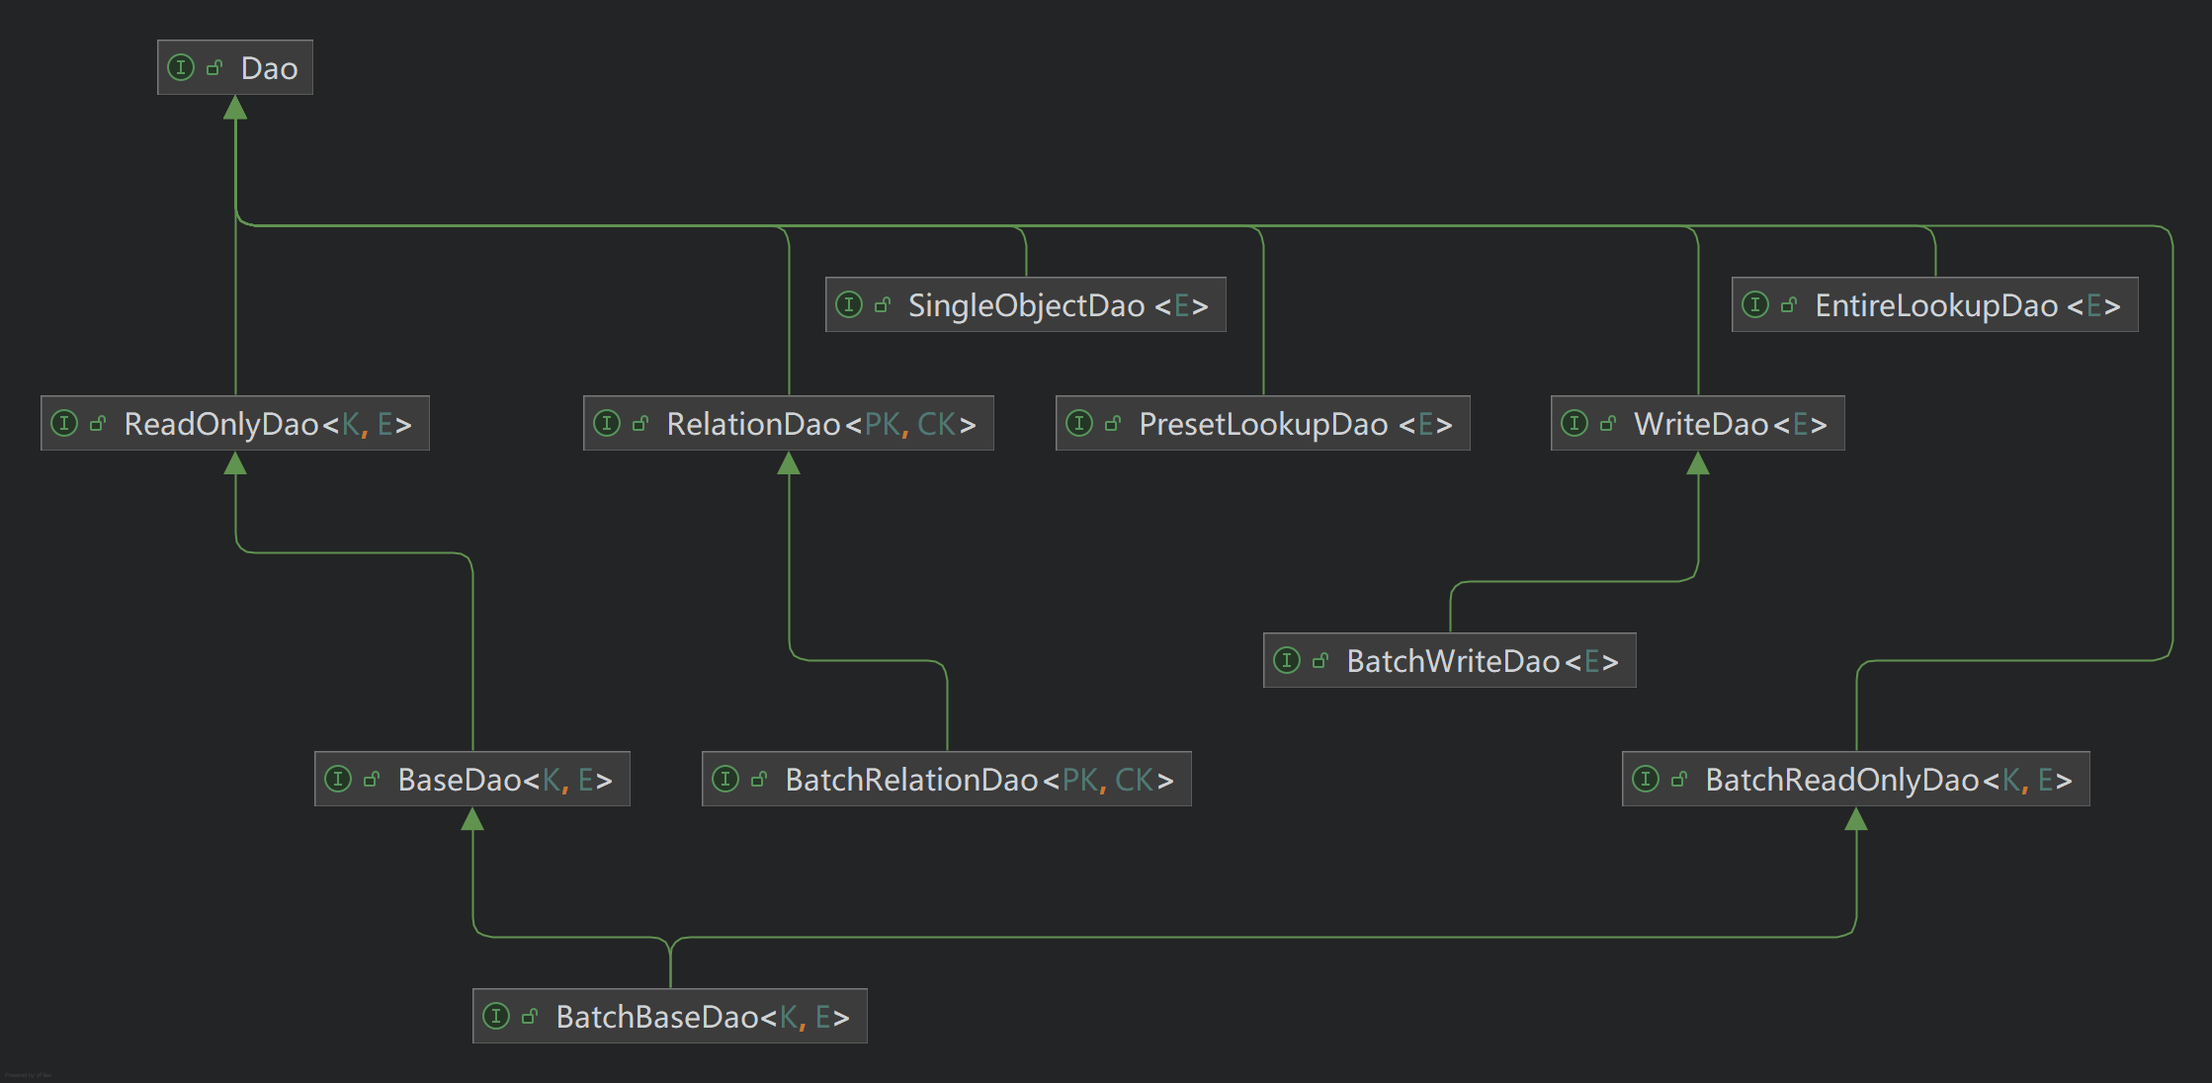
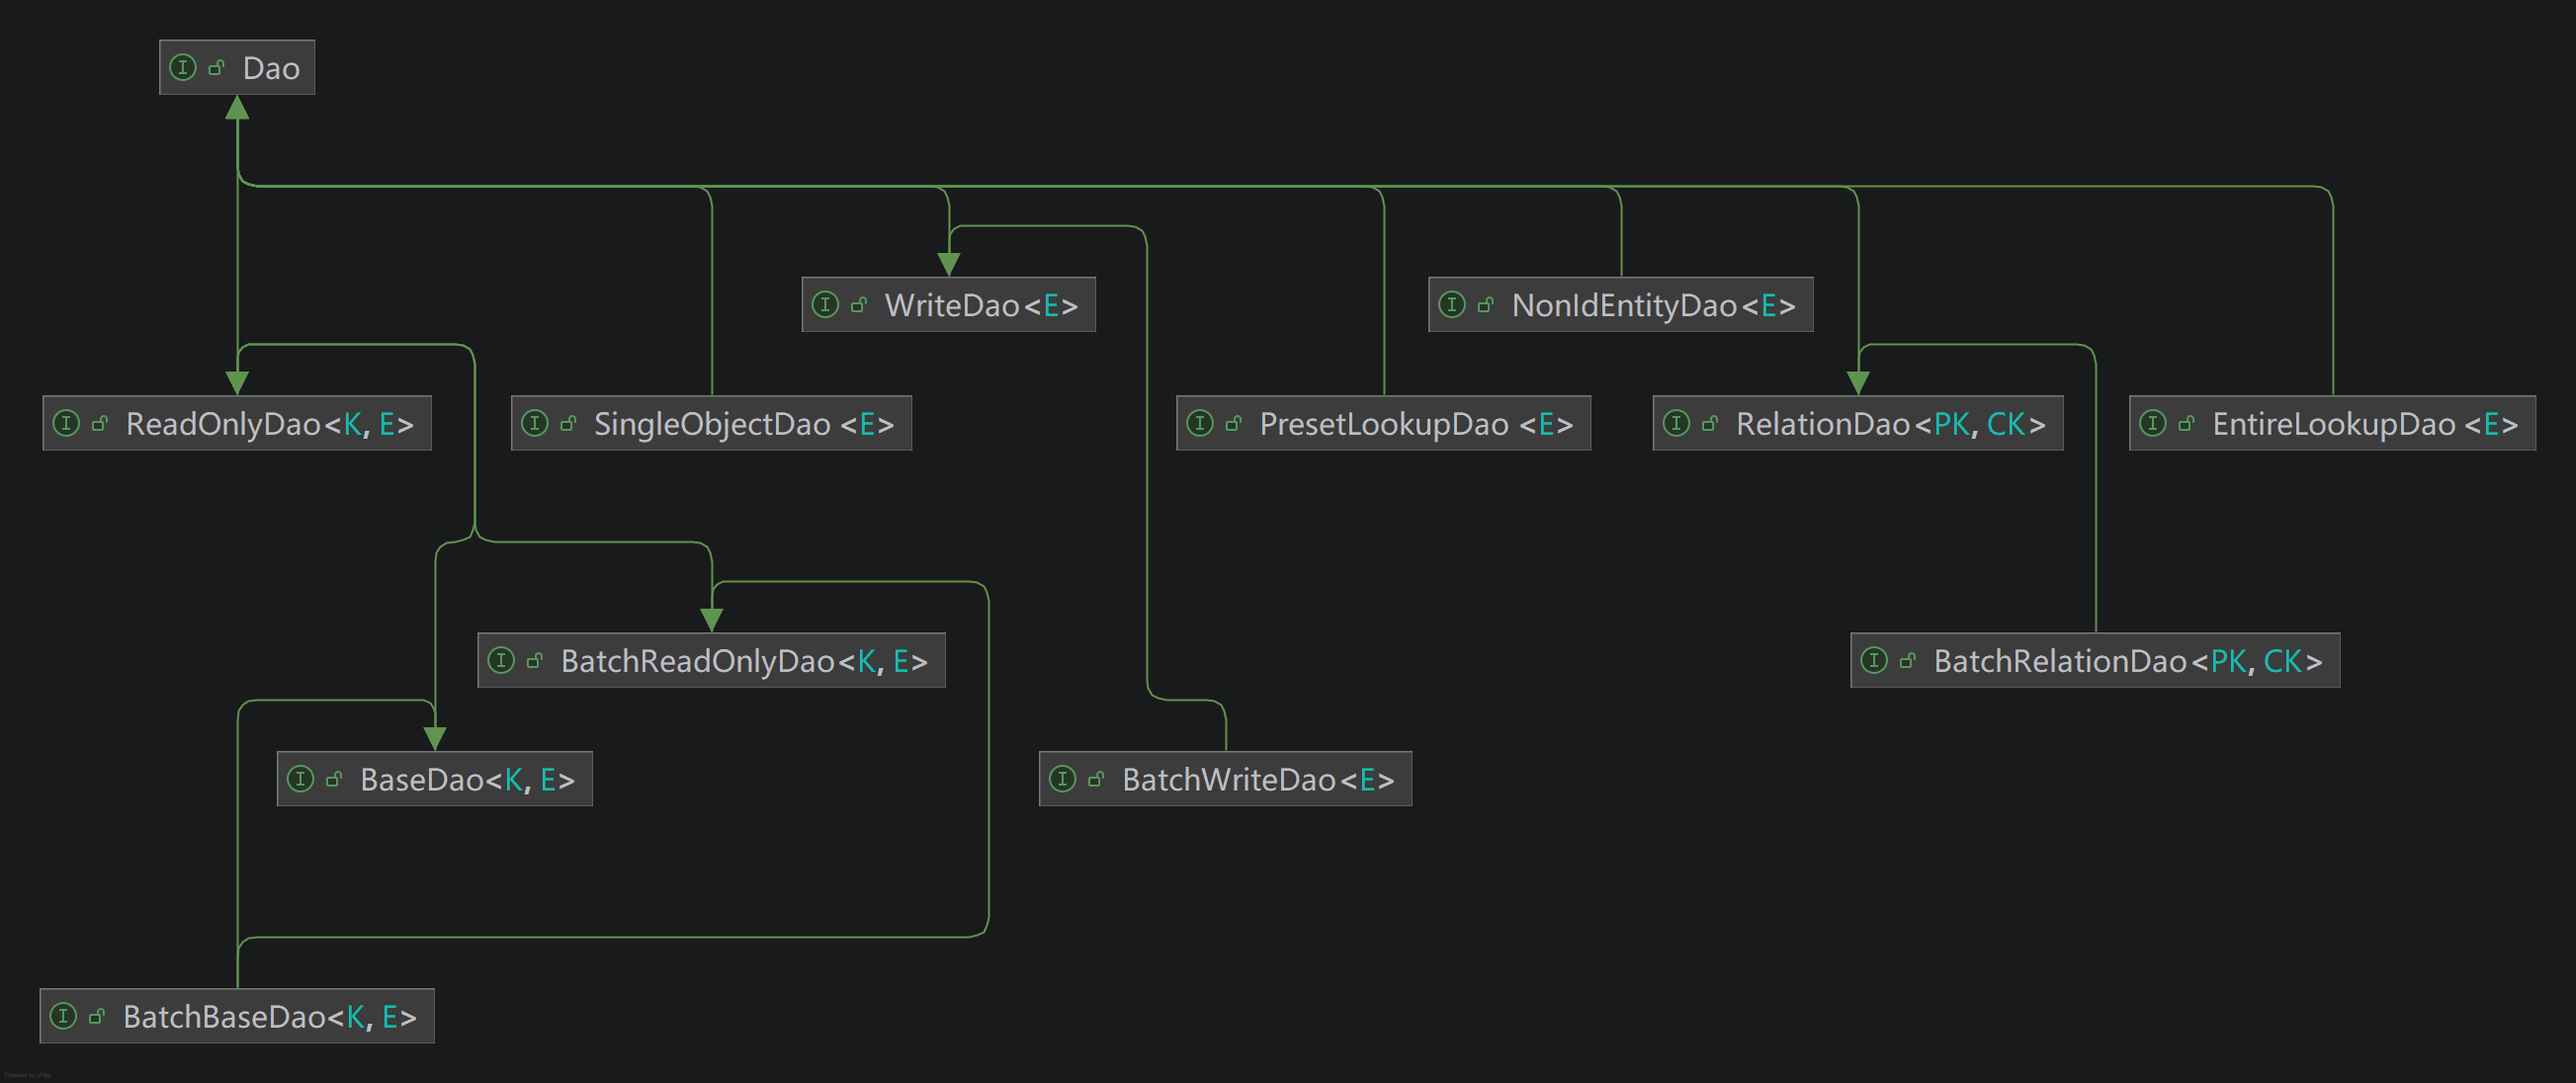
Wiki 编写
docs/wiki/zh-CN/DaoBasics.md

diff --git a/docs/wiki/zh-CN/DaoBasics.md b/docs/wiki/zh-CN/DaoBasics.md
@@ -1,0 +1,289 @@
+# Dao Basics - 数据访问层（Dao）基础
+
+## 综述
+
+数据访问层（Dao）封装对持久化数据的读写与查询，是服务层与具体存储技术之间的边界。
+在本项目中，Dao 以接口形式定义在 `com.dwarfeng.subgrade.stack.dao` 包中，由 `subgrade-impl` 模块提供多种实现，
+便于按项目技术栈组合选用。
+
+实体与主键的建模约定（`Entity`、`Key`、联合主键等）以及 Dao、缓存、服务接口在整体中的位置，
+见 [Data Access Basics](./DataAccessBasics.md)；
+缓存的接口语义与 `GeneralCrudService` 等组合缓存时的读路径，见 [Cache Basics](./CacheBasics.md)。
+
+本文在“接口定义”中说明各 Dao 接口的方法契约；在“默认实现”中按技术栈列出主要实现类；在“与服务层的典型协作”中说明与通用服务实现的组合方式。
+
+## 接口定义
+
+所有的 Dao 接口均位于 `com.dwarfeng.subgrade.stack.dao` 包中。
+
+根接口与各子接口的 UML 关系见：
+
+![DaoInterfaceUml.png](./images/DaoInterfaceUml.png)
+
+### 根接口 `Dao`
+
+`com.dwarfeng.subgrade.stack.dao.Dao` 是所有数据访问层接口的根，本身不声明方法，作为标记接口表示“属于数据访问层”的类型归属。
+
+### `ReadOnlyDao`
+
+`ReadOnlyDao<K extends Key, E extends Entity<K>>` 提供按主键的只读访问：
+
+| 方法              | 说明              |
+|:----------------|:----------------|
+| `exists(K key)` | 判断指定主键对应实体是否存在。 |
+| `get(K key)`    | 获取指定主键对应的实体。    |
+
+### `BatchReadOnlyDao`
+
+`BatchReadOnlyDao<K extends Key, E extends Entity<K>>` 继承 `ReadOnlyDao`，提供批量只读语义：
+
+| 方法                        | 说明                          |
+|:--------------------------|:----------------------------|
+| `allExists(List<K> keys)` | 当且仅当列表每一个主键均存在时返回 `true`。   |
+| `nonExists(List<K> keys)` | 当且仅当列表中每一个主键均不存在时返回 `true`。 |
+| `batchGet(List<K> keys)`  | 按顺序批量获取与主键列表对应的实体列表。        |
+
+### `BaseDao`
+
+`BaseDao<K extends Key, E extends Entity<K>>` 继承 `ReadOnlyDao`，在只读能力之上增加增删改：
+
+| 方法                  | 说明           |
+|:--------------------|:-------------|
+| `insert(E element)` | 插入实体，返回对应主键。 |
+| `update(E element)` | 更新实体。        |
+| `delete(K key)`     | 按主键删除。       |
+
+一对多关系可在两侧各用 `BaseDao` 维护实体，多对多关系见 `RelationDao`。
+
+### `BatchBaseDao`
+
+`BatchBaseDao<K extends Key, E extends Entity<K>>` 继承 `BaseDao` 与 `BatchReadOnlyDao`，
+在单条 CRUD 与批量只读之外增加批量写入与批量删除：
+
+| 方法                              | 说明           |
+|:--------------------------------|:-------------|
+| `batchInsert(List<E> elements)` | 批量插入，返回主键列表。 |
+| `batchUpdate(List<E> elements)` | 批量更新。        |
+| `batchDelete(List<K> keys)`     | 批量删除。        |
+
+### `RelationDao`
+
+`RelationDao<PK extends Key, CK extends Key>` 面向多对多：维护父项主键 `PK` 与子项主键 `CK` 之间的多对多关联。
+
+| 方法                             | 说明             |
+|:-------------------------------|:---------------|
+| `existsRelation(PK pk, CK ck)` | 判断父项与子项是否存在关联。 |
+| `addRelation(PK pk, CK ck)`    | 增加一条关联。        |
+| `deleteRelation(PK pk, CK ck)` | 删除一条关联。        |
+
+### `BatchRelationDao`
+
+`BatchRelationDao<PK extends Key, CK extends Key>` 继承 `RelationDao`，
+在单条关联操作之外增加针对子项主键列表的批量语义（另继承上表中的 `existsRelation`、`addRelation`、`deleteRelation`）。
+
+| 方法                                          | 说明                                     |
+|:--------------------------------------------|:---------------------------------------|
+| `existsAllRelations(PK pk, List<CK> cks)`   | 当且仅当每一个指定的子项主键都与 `pk` 存在关联时返回 `true`。  |
+| `existsNonRelations(PK pk, List<CK> cks)`   | 当且仅当每一个指定的子项主键都与 `pk` 不存在关联时返回 `true`。 |
+| `batchAddRelations(PK pk, List<CK> cks)`    | 为父项批量添加与子项的关联。                         |
+| `batchDeleteRelations(PK pk, List<CK> cks)` | 批量删除父项与多个子项的关联。                        |
+
+### `EntireLookupDao`
+
+`EntireLookupDao<E extends Entity<?>>` 适用于数据量可控、需要“查全表”或按分页遍历的场景：
+
+| 方法                              | 说明                                  |
+|:--------------------------------|:------------------------------------|
+| `lookup()`                      | 返回全部元素列表。                           |
+| `lookup(PagingInfo pagingInfo)` | 分页查询。                               |
+| `lookupCount()`                 | 元素总数。                               |
+| `lookupFirst()`                 | 默认方法：取第一页一条，无数据时返回 `null`（自 1.2.8）。 |
+
+### `PresetLookupDao`
+
+`PresetLookupDao<E extends Entity<?>>` 支持有限个命名预设（`preset`）及参数数组（`objs`），用于条件查询与统计：
+
+| 方法                                                            | 说明                                |
+|:--------------------------------------------------------------|:----------------------------------|
+| `lookup(String preset, Object[] objs)`                        | 满足预设的全部结果。                        |
+| `lookup(String preset, Object[] objs, PagingInfo pagingInfo)` | 分页结果。                             |
+| `lookupCount(String preset, Object[] objs)`                   | 满足预设的数量。                          |
+| `lookupFirst(String preset, Object[] objs)`                   | 默认方法：取第一条，无数据时返回 `null`（自 1.2.8）。 |
+
+### `WriteDao`
+
+`WriteDao<E extends Entity<?>>` 面向大量追加写入（如数据采集）场景，与 `WriteService` 配套。
+
+| 方法                 | 说明                                                    |
+|:-------------------|:------------------------------------------------------|
+| `write(E element)` | 写入一条实体。主键允许为 `null`；若主键非 `null`，则必须保证该主键对应数据在写入前尚不存在。 |
+
+### `BatchWriteDao`
+
+`BatchWriteDao<E extends Entity<?>>` 继承 `WriteDao`，在单条 `write` 之外增加批量写入（另继承上表中的 `write`）。
+
+| 方法                             | 说明                                |
+|:-------------------------------|:----------------------------------|
+| `batchWrite(List<E> elements)` | 批量写入；语义上对每个元素执行与 `write` 等价的写入约束。 |
+
+### `SingleObjectDao`
+
+`SingleObjectDao<E extends Entity<?>>` 表示全局仅一条的实体，常用于配置项、全局开关等与主键集合无关的持久化单例数据。
+
+| 方法              | 说明           |
+|:----------------|:-------------|
+| `exists()`      | 判断该单对象是否已存在。 |
+| `get()`         | 获取当前存储的实体。   |
+| `put(E entity)` | 插入或更新为指定实体。  |
+| `clear()`       | 删除该单对象对应的数据。 |
+
+### `NonIdEntityDao`
+
+`NonIdEntityDao<E>` 继承 `Dao`，本身不声明方法，用于与“无主键实体”相关的数据访问类型标记；具体方法由项目侧扩展约定。
+
+## 默认实现
+
+`com.dwarfeng.subgrade.impl.dao` 包提供各技术栈下的实现类。 同类实现的方法语义与接口一致，差异主要体现在底层 API。
+
+实现类通常不声明事务边界，需要在代理类或外层封装中统一加事务，与缓存、服务层文档中的说明一致。
+
+### Hibernate 实现
+
+基于 Spring `HibernateTemplate` 与实体/持久化 Bean 的 `BeanTransformer` 等组件。
+
+| 类名                                       | 实现的接口                  |
+|:-----------------------------------------|:-----------------------|
+| `HibernateBaseDao`                       | `BaseDao`              |
+| `HibernateBatchBaseDao`                  | `BatchBaseDao`         |
+| `HibernateRelationDao`                   | `RelationDao`          |
+| `HibernateBatchRelationDao`              | `BatchRelationDao`     |
+| `HibernateEntireLookupDao`               | `EntireLookupDao`      |
+| `HibernatePresetLookupDao`               | `PresetLookupDao`      |
+| `HibernateHqlPresetLookupDao`            | `PresetLookupDao`      |
+| `HibernateAccelerablePresetLookupDao`    | `PresetLookupDao`      |
+| `HibernateAccelerableHqlPresetLookupDao` | `PresetLookupDao`      |
+| `HibernateAcceleratePresetLookupDao`     | `PresetLookupDao`（已废弃） |
+| `HibernateWriteDao`                      | `WriteDao`             |
+| `HibernateBatchWriteDao`                 | `BatchWriteDao`        |
+| `HibernateSingleObjectDao`               | `SingleObjectDao`      |
+
+此外提供 `HibernateDaoFactory`：
+根据方言、`PresetCriteriaMaker`、本地 SQL 查询等参数构造合适的 `PresetLookupDao` 实现（如 Criteria 与可加速原生查询等变体），
+用于在运行时选择 Hibernate 侧预设查询策略。
+
+### JDBC 实现
+
+基于 Spring `JdbcTemplate` 等，适合显式 SQL 与轻量依赖场景。
+
+| 类名                    | 实现的接口             |
+|:----------------------|:------------------|
+| `JdbcBaseDao`         | `BaseDao`         |
+| `JdbcBatchBaseDao`    | `BatchBaseDao`    |
+| `JdbcEntireLookupDao` | `EntireLookupDao` |
+| `JdbcPresetLookupDao` | `PresetLookupDao` |
+| `JdbcWriteDao`        | `WriteDao`        |
+| `JdbcBatchWriteDao`   | `BatchWriteDao`   |
+
+### MyBatis 实现
+
+基于 MyBatis `SqlSession` 与映射语句 id，与 Mapper XML / 注解配合使用。
+
+| 类名                        | 实现的接口              |
+|:--------------------------|:-------------------|
+| `MybatisBaseDao`          | `BaseDao`          |
+| `MybatisBatchBaseDao`     | `BatchBaseDao`     |
+| `MybatisRelationDao`      | `RelationDao`      |
+| `MybatisBatchRelationDao` | `BatchRelationDao` |
+| `MybatisEntireLookupDao`  | `EntireLookupDao`  |
+| `MybatisPresetLookupDao`  | `PresetLookupDao`  |
+| `MybatisWriteDao`         | `WriteDao`         |
+| `MybatisBatchWriteDao`    | `BatchWriteDao`    |
+
+### Memory 实现
+
+进程内 Map 等结构，多用于测试或轻量场景。
+
+| 类名                      | 实现的接口             |
+|:------------------------|:------------------|
+| `MemoryBaseDao`         | `BaseDao`         |
+| `MemoryBatchBaseDao`    | `BatchBaseDao`    |
+| `MemoryEntireLookupDao` | `EntireLookupDao` |
+| `MemoryPresetLookupDao` | `PresetLookupDao` |
+| `MemorySingleObjectDao` | `SingleObjectDao` |
+
+### Redis 实现
+
+基于 `RedisTemplate<String, JE>`，通过 `StringKeyFormatter<K>` 格式化键、`BeanTransformer` 在领域实体与存储 Bean 间转换，
+适用于以 Redis 为存储后端的实体。
+
+| 类名                     | 实现的接口             |
+|:-----------------------|:------------------|
+| `RedisBaseDao`         | `BaseDao`         |
+| `RedisBatchBaseDao`    | `BatchBaseDao`    |
+| `RedisEntireLookupDao` | `EntireLookupDao` |
+| `RedisPresetLookupDao` | `PresetLookupDao` |
+| `RedisSingleObjectDao` | `SingleObjectDao` |
+
+## 与服务层的典型协作
+
+下列通用实现位于 `com.dwarfeng.subgrade.impl.service` 包。
+类本身多不声明事务，需在代理层增加事务； 对外异常通常为 `ServiceException`，经异常映射统一处理（见“异常”一节）。
+与缓存组合的读路径细节见 [Cache Basics](./CacheBasics.md)。
+
+### `GeneralCrudService` 与 `BaseDao`
+
+`GeneralCrudService` 组合 `BaseDao` 与 `BaseCache`：
+存在性优先查缓存，未命中再访问 `dao`；`get` 从数据库读出后会 `push` 回填缓存；
+`insert`/`update`/`delete` 在操作数据库后同步维护缓存；并提供 `dumpCache(key)` 手动刷新缓存。
+
+### `GeneralBatchCrudService` 与 `BatchBaseDao`
+
+`GeneralBatchCrudService` 组合 `BatchBaseDao` 与 `BatchBaseCache`，批量语义与单键场景类似，
+并提供 `batchDumpCache` 等多键回填能力。
+
+### `DaoOnlyCrudService` / `DaoOnlyBatchCrudService`
+
+`DaoOnlyCrudService` 仅依赖 `BaseDao`，`DaoOnlyBatchCrudService` 仅依赖 `BatchBaseDao`，不使用缓存，
+适合不需要缓存或自行组合装饰的场景。
+
+### `GeneralEntireLookupService` 与 `EntireLookupDao`
+
+`GeneralEntireLookupService` 组合 `EntireLookupDao` 与 `ListCache`：
+若列表缓存存在则优先走缓存，否则调用 `dao.lookup()` 后写入列表缓存，再对外提供分页等查询。
+
+### `DaoOnlyEntireLookupService`
+
+仅依赖 `EntireLookupDao`，不经过列表缓存。
+
+### `DaoOnlyPresetLookupService` 与 `PresetLookupDao`
+
+`DaoOnlyPresetLookupService` 将预设查询委托给 `PresetLookupDao`，不内置与 `ListCache` 的固定组合；若需缓存，可在业务侧自行包装。
+
+### `DaoOnlyRelationService` / `DaoOnlyBatchRelationService`
+
+分别组合 `RelationDao` 与 `BatchRelationDao`，提供关系维度的服务封装。
+
+### `DaoOnlyWriteService` / `DaoOnlyBatchWriteService`
+
+分别组合 `WriteDao` 与 `BatchWriteDao`，适用于采集等写入场景。
+
+### `GeneralSingleObjectService` 与 `SingleObjectDao`
+
+`GeneralSingleObjectService` 组合 `SingleObjectDao` 与 `SingleObjectCache`：
+`get` 优先缓存，否则读 Dao 后回填；`put` 先写 Dao 再写缓存；`clear` 同时清理 Dao 与缓存（具体以实现为准）。
+
+### `DaoOnlySingleObjectService`
+
+仅依赖 `SingleObjectDao`，不使用单对象缓存。
+
+## 异常
+
+数据访问层方法抛出 `com.dwarfeng.subgrade.stack.exception.DaoException`（通常为包装底层存储或映射异常）。
+对外服务接口多使用 `ServiceException`，并通过异常映射统一处理；
+详见 [Exception Mapping Basics](./ExceptionMappingBasics.md)。
+
+## 参阅
+
+- [Data Access Basics](./DataAccessBasics.md) — 实体、主键、Dao、缓存与服务接口总览。
+- [Cache Basics](./CacheBasics.md) — 数据缓存接口及与服务层的典型协作。
+- [Exception Mapping Basics](./ExceptionMappingBasics.md) — 服务异常与映射机制。

diff --git a/docs/wiki/zh-CN/Contents.md b/docs/wiki/zh-CN/Contents.md
@@ -23,6 +23,7 @@
 
 - [Data Access Basics](./DataAccessBasics.md) - 数据访问基础，说明了本项目的数据访问基础功能以及接口。
 - [Cache Basics](./CacheBasics.md) - 数据缓存基础，说明了数据缓存接口、默认实现及与服务层的典型协作方式。
+- [Dao Basics](./DaoBasics.md) - 数据访问层（Dao）基础，说明了 Dao 接口层次、默认实现及与服务层的典型协作方式。
 
 ### 异常映射
 

diff --git a/CHANGELOG.md b/CHANGELOG.md
@@ -4,6 +4,9 @@
 
 ### 功能构建
 
+- Wiki 编写。
+  - docs/wiki/zh-CN/DaoBasics.md。
+
 - 优化部分接口的继承关系。
   - com.dwarfeng.subgrade.stack.dao.BatchReadOnlyDao。
 
